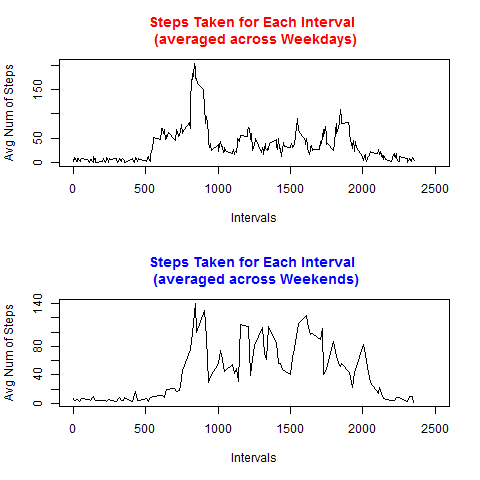
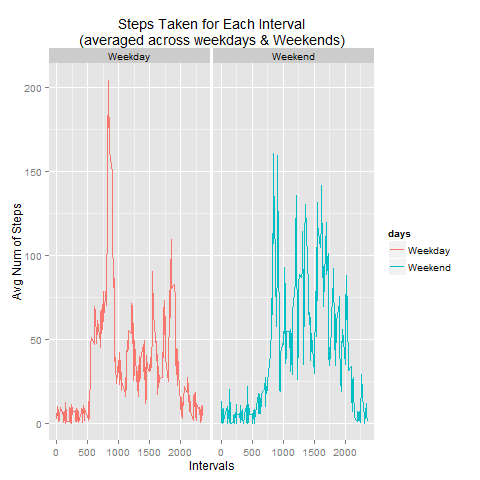
Modified the .Rmd file for better panel plot

diff --git a/PA1_template.html b/PA1_template.html
@@ -54,7 +54,7 @@ if (window.hljs && document.readyState && document.readyState === "complete") {
 <div id="header">
 <h1 class="title">Reproducible Research: Peer Assessment 1</h1>
 <h4 class="author"><em>Prady Misra</em></h4>
-<h4 class="date"><em>Saturday, February 14, 2015</em></h4>
+<h4 class="date"><em>Sunday, February 15, 2015</em></h4>
 </div>
 
 
@@ -237,50 +237,19 @@ colnames(wdf) &lt;- c(&quot;days&quot;)
 fnew &lt;- cbind(f6, wdf)
 rm(wdf)</code></pre>
 <p>We subset the dataframe for only weekdays, find total number of rows and use that to determine number of rows for an interval over which we need to calculate the average. We know that each day has 288 of 5 minute intervals. So the number of rows for each interval will be total_rows/288 i.e. nrow(fwkday)/288. Same process is followed for weekend subset.</p>
-<p>Create two separate dataframes for weekdays and weekends (for simplicity)</p>
-<pre class="r"><code>fwkday &lt;- subset(fnew, select=c(steps, interval, days), subset=(days == &quot;Weekday&quot;))
-fwknd &lt;- subset(fnew, select=c(steps, interval, days), subset=(days == &quot;Weekend&quot;))</code></pre>
-<p>Let’s handle the subset with weekdays first.</p>
-<pre class="r"><code>fwkday &lt;- arrange(fwkday, interval)
-i &lt;- 1
-df2n &lt;- data.frame()
-while (i &lt; nrow(fwkday)) {
-  last &lt;- i+44
-  avgsteps &lt;- mean(fwkday[i:last,]$steps, na.rm=TRUE)
-  temp &lt;- data.frame(fwkday$interval[i], avgsteps)
-  df2n &lt;- rbind(df2n, temp) 
-  i &lt;- last+1
-}
-colnames(df2n) &lt;- c(&quot;interval&quot;, &quot;avgsteps&quot;)</code></pre>
-<p>Do the same for Weekends</p>
-<pre class="r"><code>fwknd &lt;- arrange(fwknd, interval)
-i &lt;- 1
-df3n &lt;- data.frame()
-while (i &lt; nrow(fwknd)) {
-  last &lt;- i+44
-  avgsteps &lt;- mean(fwknd[i:last,]$steps, na.rm=TRUE)
-  temp &lt;- data.frame(fwknd$interval[i], avgsteps)
-  df3n &lt;- rbind(df3n, temp) 
-  i &lt;- last+1
-}
-colnames(df3n) &lt;- c(&quot;interval&quot;, &quot;avgsteps&quot;)</code></pre>
-<p>We want to create a panel plot with both of these one below the other as indicated in the instructioins and also the sample plot included with the assignment.</p>
-<pre class="r"><code># Set the par variable to indicate we want 2 rows and 1 column for our plots
-png(file=&quot;figure/fig4.png&quot;)
-par(mfrow=c(2,1))
-with (df2n, plot(interval, avgsteps, type = &quot;l&quot;, xlim=c(0,2500),
-                 main=&quot;Steps Taken for Each Interval \n (averaged across Weekdays)&quot;, 
-                 col.main = &quot;red&quot;, xlab=&quot;Intervals&quot;, ylab=&quot;Avg Num of Steps&quot;))
-
-with (df3n, plot(interval, avgsteps, type = &quot;l&quot;, xlim=c(0,2500),
-                 main=&quot;Steps Taken for Each Interval \n (averaged across Weekends)&quot;, 
-                 col.main = &quot;blue&quot;, xlab=&quot;Intervals&quot;, ylab=&quot;Avg Num of Steps&quot;))
+<pre class="r"><code>fnew1 &lt;- ddply(fnew, c(&quot;interval&quot;, &quot;days&quot;), summarise, avgsteps = mean(steps))
+library(ggplot2)</code></pre>
+<pre><code>## Warning: package 'ggplot2' was built under R version 3.1.2</code></pre>
+<pre class="r"><code>png(file=&quot;figure/fig4.png&quot;)
+g &lt;- ggplot(fnew1, aes(interval, avgsteps, ))
+g &lt;- g + geom_line(aes(color=days)) + facet_grid (. ~days)
+g &lt;- g + labs (title = &quot;Steps Taken for Each Interval\n(averaged across weekdays &amp; Weekends)&quot;)
+g &lt;- g + labs ( x = &quot;Intervals&quot;, y = &quot;Avg Num of Steps&quot;)
+print(g)
 dev.off()</code></pre>
 <pre><code>## pdf 
 ##   2</code></pre>
-<pre class="r"><code># restore default setting
-par(mfrow=c(1,1))</code></pre>
[2 lines of base64/hex data omitted]
 </div>
 
 

diff --git a/PA1_template.md b/PA1_template.md
@@ -1,6 +1,6 @@
 # Reproducible Research: Peer Assessment 1
 Prady Misra  
-Saturday, February 14, 2015  
+Sunday, February 15, 2015  
 
 
 ## Loading and preprocessing the data
@@ -282,62 +282,23 @@ rm(wdf)
 
 We subset the dataframe for only weekdays, find total number of rows and use that to determine number of rows for an interval over which we need to calculate the average. We know that each day has 288 of 5 minute intervals. So the number of rows for each interval will be total_rows/288 i.e. nrow(fwkday)/288. Same process is followed for weekend subset.
 
-Create two separate dataframes for weekdays and weekends (for simplicity)
-
 
 ```r
-fwkday <- subset(fnew, select=c(steps, interval, days), subset=(days == "Weekday"))
-fwknd <- subset(fnew, select=c(steps, interval, days), subset=(days == "Weekend"))
+fnew1 <- ddply(fnew, c("interval", "days"), summarise, avgsteps = mean(steps))
+library(ggplot2)
 ```
 
-Let's handle the subset with weekdays first.
-
-
-```r
-fwkday <- arrange(fwkday, interval)
-i <- 1
-df2n <- data.frame()
-while (i < nrow(fwkday)) {
-  last <- i+44
-  avgsteps <- mean(fwkday[i:last,]$steps, na.rm=TRUE)
-  temp <- data.frame(fwkday$interval[i], avgsteps)
-  df2n <- rbind(df2n, temp) 
-  i <- last+1
-}
-colnames(df2n) <- c("interval", "avgsteps")
+```
+## Warning: package 'ggplot2' was built under R version 3.1.2
 ```
 
-Do the same for Weekends
-
-
 ```r
-fwknd <- arrange(fwknd, interval)
-i <- 1
-df3n <- data.frame()
-while (i < nrow(fwknd)) {
-  last <- i+44
-  avgsteps <- mean(fwknd[i:last,]$steps, na.rm=TRUE)
-  temp <- data.frame(fwknd$interval[i], avgsteps)
-  df3n <- rbind(df3n, temp) 
-  i <- last+1
-}
-colnames(df3n) <- c("interval", "avgsteps")
-```
-
-We want to create a panel plot with both of these one below the other as indicated in the instructioins and also the sample plot included with the assignment.
-
-
-```r
-# Set the par variable to indicate we want 2 rows and 1 column for our plots
 png(file="figure/fig4.png")
-par(mfrow=c(2,1))
-with (df2n, plot(interval, avgsteps, type = "l", xlim=c(0,2500),
-                 main="Steps Taken for Each Interval \n (averaged across Weekdays)", 
-                 col.main = "red", xlab="Intervals", ylab="Avg Num of Steps"))
-
-with (df3n, plot(interval, avgsteps, type = "l", xlim=c(0,2500),
-                 main="Steps Taken for Each Interval \n (averaged across Weekends)", 
-                 col.main = "blue", xlab="Intervals", ylab="Avg Num of Steps"))
+g <- ggplot(fnew1, aes(interval, avgsteps, ))
+g <- g + geom_line(aes(color=days)) + facet_grid (. ~days)
+g <- g + labs (title = "Steps Taken for Each Interval\n(averaged across weekdays & Weekends)")
+g <- g + labs ( x = "Intervals", y = "Avg Num of Steps")
+print(g)
 dev.off()
 ```
 
@@ -346,10 +307,6 @@ dev.off()
 ##   2
 ```
 
-```r
-# restore default setting
-par(mfrow=c(1,1))
-```
 
-![](./PA1_template_files/figure-html/unnamed-chunk-19-1.png) 
+![](./PA1_template_files/figure-html/unnamed-chunk-16-1.png) 
 
